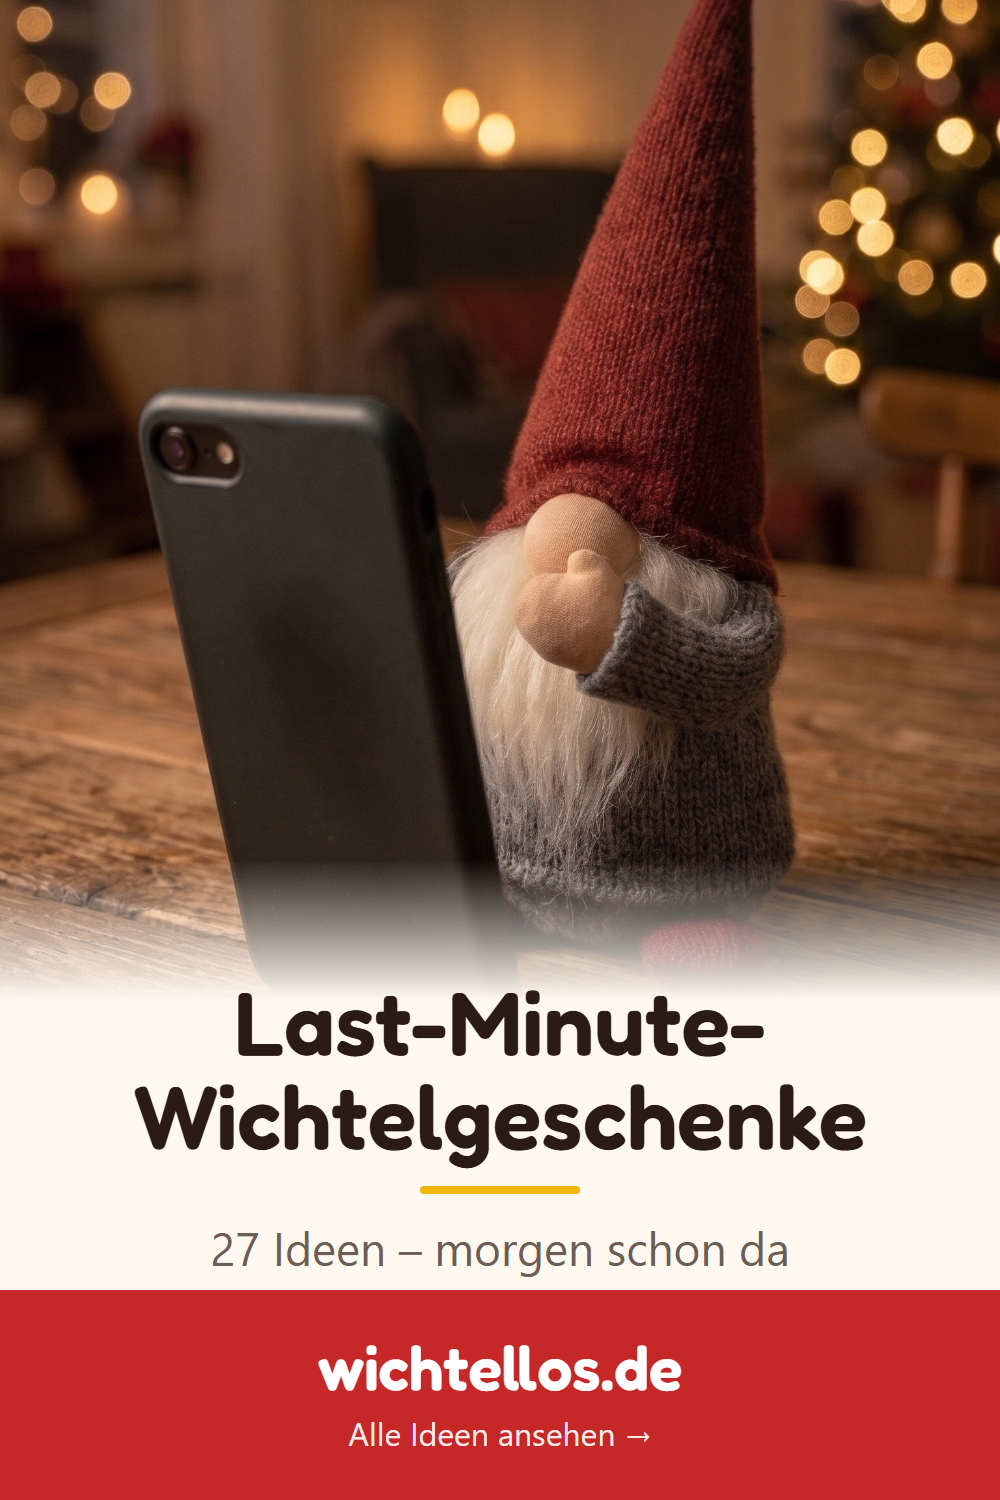
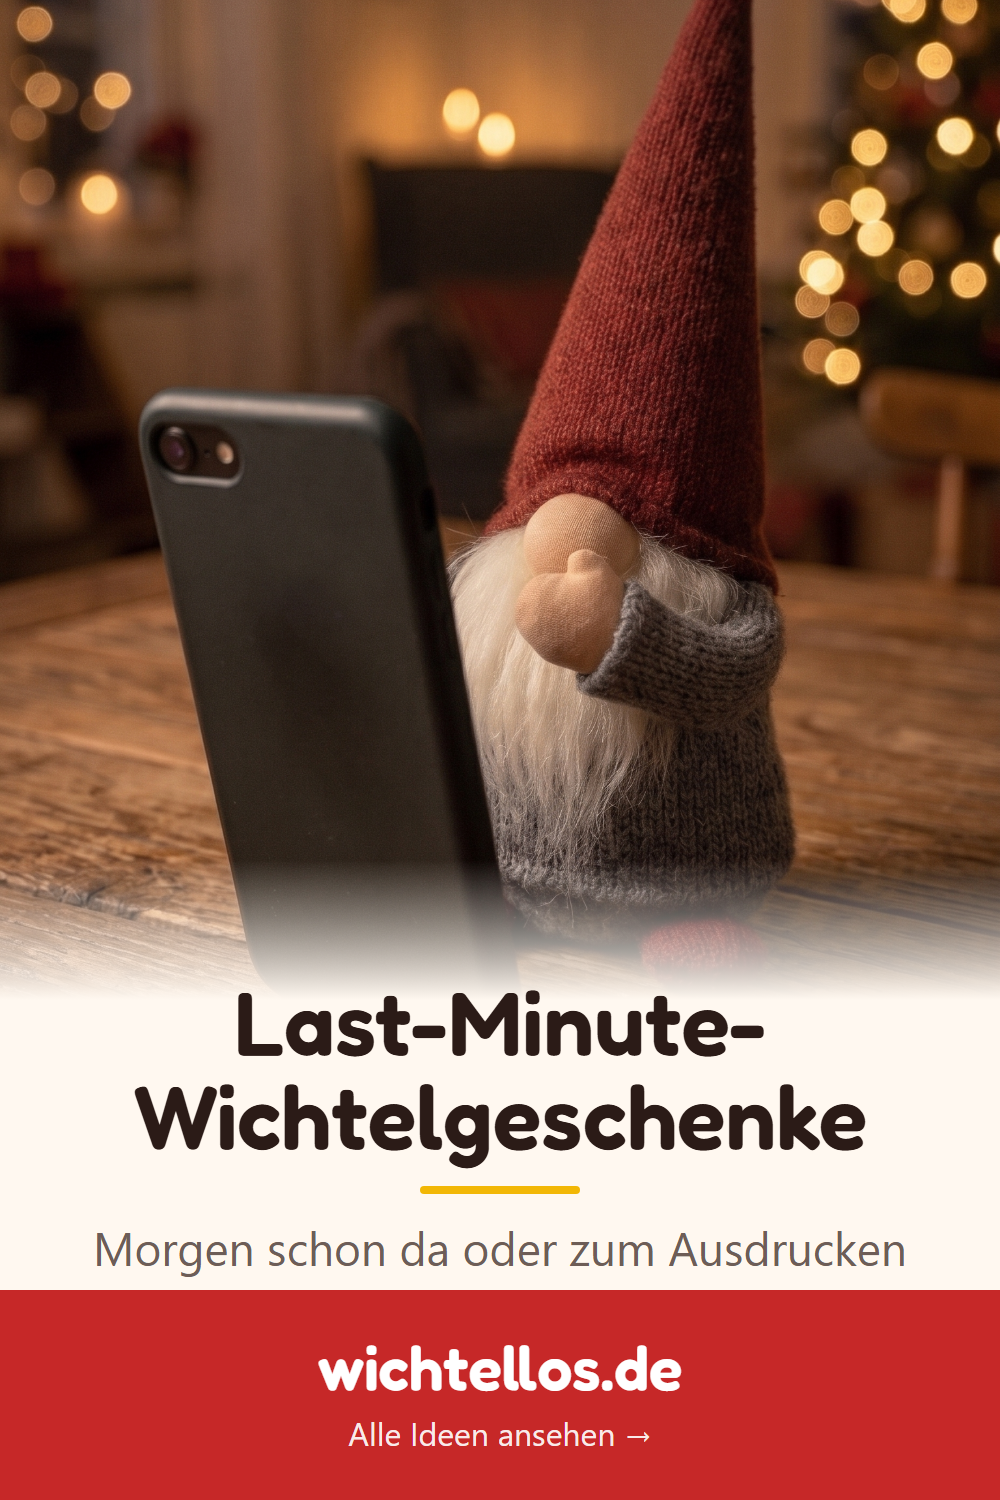
[PC] Pins neue Seiten: Untertitel ohne Ideen-Anzahl (Toni)

Changed region(s): [[0.403, 0.828, 0.899, 0.8587], [0.093, 0.828, 0.372, 0.8587]]

diff --git a/marketing/render-pins3d.js b/marketing/render-pins3d.js
@@ -44,15 +44,15 @@ const PINS = [
   ['lustig', 'schrott.jpg', '50% 45%', 'Lustige Wichtel&shy;geschenke', '30 Ideen zum Lachen', 'Alle Ideen ansehen →'],
   ['lustig-buero', 'feier.jpg', '50% 45%', 'Lustige Wichtel&shy;geschenke fürs Büro', 'Bullshit-Buzzer, Mini-Boxsack &amp; Co.', 'Ideen fürs Team →'],
   ['lustig-10', 'geschenk.jpg', '50% -420px', 'Lustige Wichtel&shy;geschenke bis 10&nbsp;€', 'Furzkissen, Glückskekse &amp; Co.', 'Alle Ideen ansehen →'],
-  // 20.11. Pins für die neuen Seiten (Toni: Tabelle „ja“), je einer pro Tag ab 23.11.
-  ['kollegen', 'geschenke/kakao.jpg', '50% 50%', 'Wichtel&shy;geschenke für Kollegen', '28 Ideen für Schreibtisch &amp; Kaffeepause', 'Alle Ideen ansehen →'],
+  // 20.11. Pins für die neuen Seiten (Toni: Tabelle „ja“), je einer pro Tag ab 23.11. – ohne Ideen-Anzahl (Toni: Zahl veraltet, wirkt beliebig)
+  ['kollegen', 'geschenke/kakao.jpg', '50% 50%', 'Wichtel&shy;geschenke für Kollegen', 'Ideen für Schreibtisch &amp; Kaffeepause', 'Alle Ideen ansehen →'],
   ['julklapp', 'tuer.jpg', '60% 50%', 'Julklapp: Was&nbsp;ist&nbsp;das?', 'Brauch, Regeln &amp; Ablauf', 'Mehr erfahren →'],
   ['spiele', 'wuerfel.jpg', '50% -400px', 'Gesellschafts&shy;spiele verschenken', 'Top 10 für den Spieleabend', 'Zur Top 10 →'],
-  ['oma-opa', 'geschenke/pflanze.jpg', '50% 50%', 'Geschenke für Oma&nbsp;&amp;&nbsp;Opa', '28 Ideen mit Herz', 'Alle Ideen ansehen →'],
-  ['teenager', 'onni-handy.jpg', '50% 45%', 'Wichtel&shy;geschenke für Teenager', '26 Ideen für 13- bis 17-Jährige', 'Alle Ideen ansehen →'],
-  ['erzieherin', 'basteln.jpg', '50% 40%', 'Geschenke für Erzieherinnen', '19 Ideen zum Danke sagen', 'Alle Ideen ansehen →'],
-  ['last-minute', 'onni-handy-ruecken.jpg', '50% 45%', 'Last-Minute-Wichtel&shy;geschenke', '27 Ideen – morgen schon da', 'Alle Ideen ansehen →'],
-  ['abschied', 'umschlag.jpg', '50% -300px', 'Wichtel-Abschied', 'Abschiedsbrief &amp; 8 Ideen für Heiligabend', 'Mehr erfahren →'],
+  ['oma-opa', 'geschenke/pflanze.jpg', '50% 50%', 'Geschenke für Oma&nbsp;&amp;&nbsp;Opa', 'Gemütlich, Garten &amp; Erinnerungen', 'Alle Ideen ansehen →'],
+  ['teenager', 'onni-handy.jpg', '50% 45%', 'Wichtel&shy;geschenke für Teenager', 'Technik, Zimmer, Spiele &amp; Style', 'Alle Ideen ansehen →'],
+  ['erzieherin', 'basteln.jpg', '50% 40%', 'Geschenke für Erzieherinnen', 'Kleine Dankeschöns mit Herz', 'Alle Ideen ansehen →'],
+  ['last-minute', 'onni-handy-ruecken.jpg', '50% 45%', 'Last-Minute-Wichtel&shy;geschenke', 'Morgen schon da oder zum Ausdrucken', 'Alle Ideen ansehen →'],
+  ['abschied', 'umschlag.jpg', '50% -300px', 'Wichtel-Abschied', 'Abschiedsbrief &amp; Ideen für Heiligabend', 'Mehr erfahren →'],
 ];
 // Nur einzelne Pins neu bauen: node marketing/render-pins3d.js wuerfeln
 const NUR = process.argv.slice(2);
